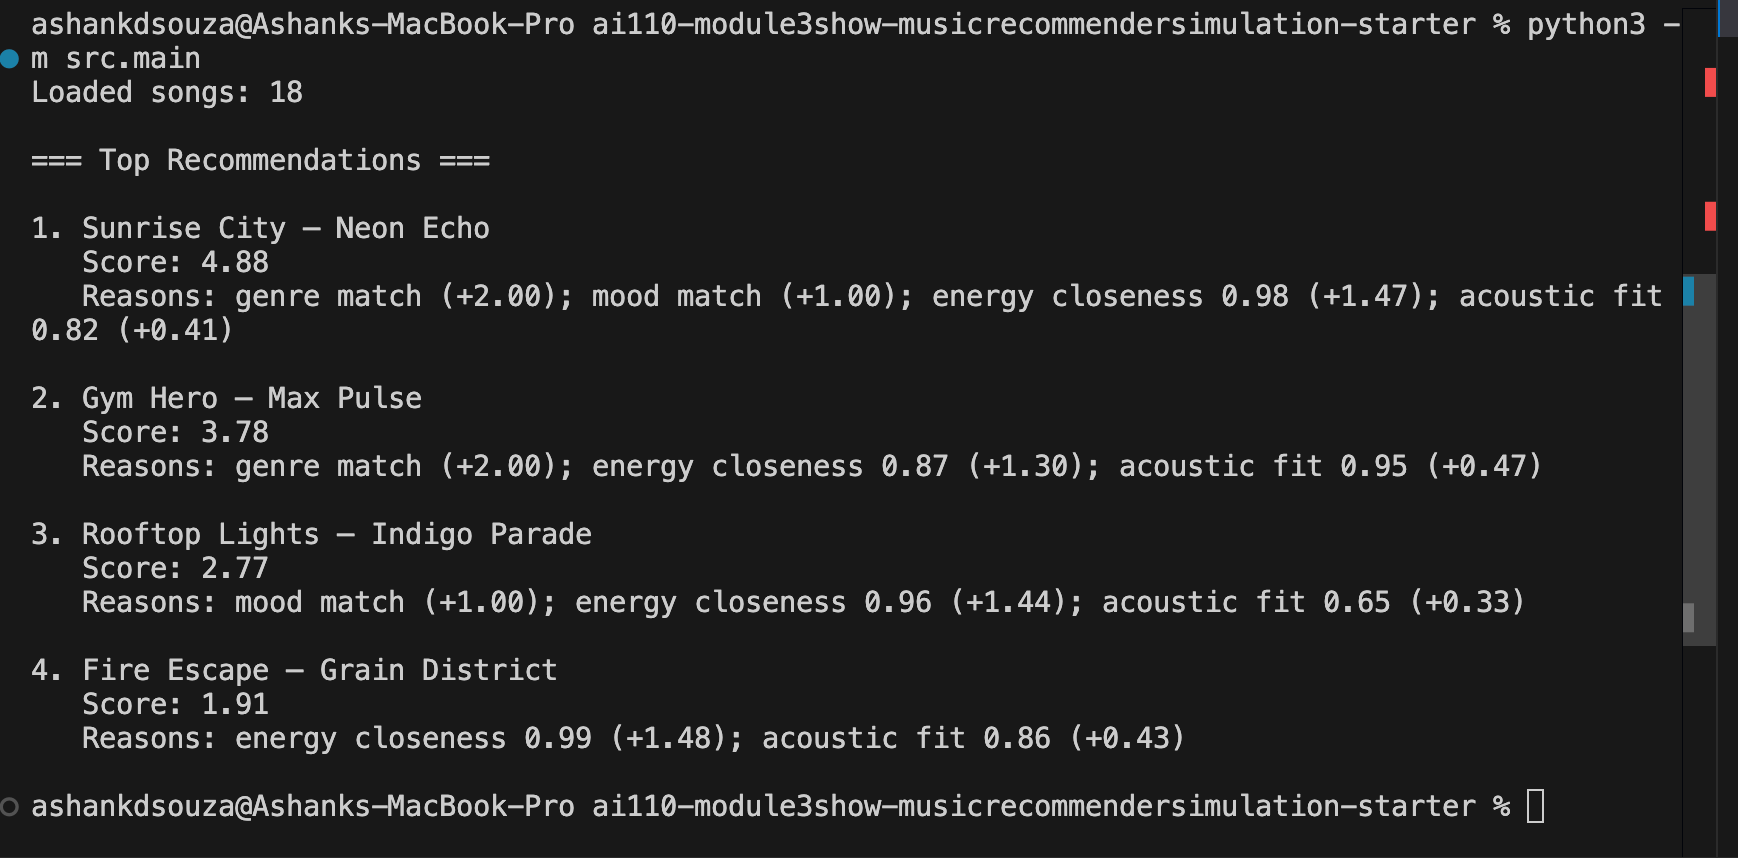
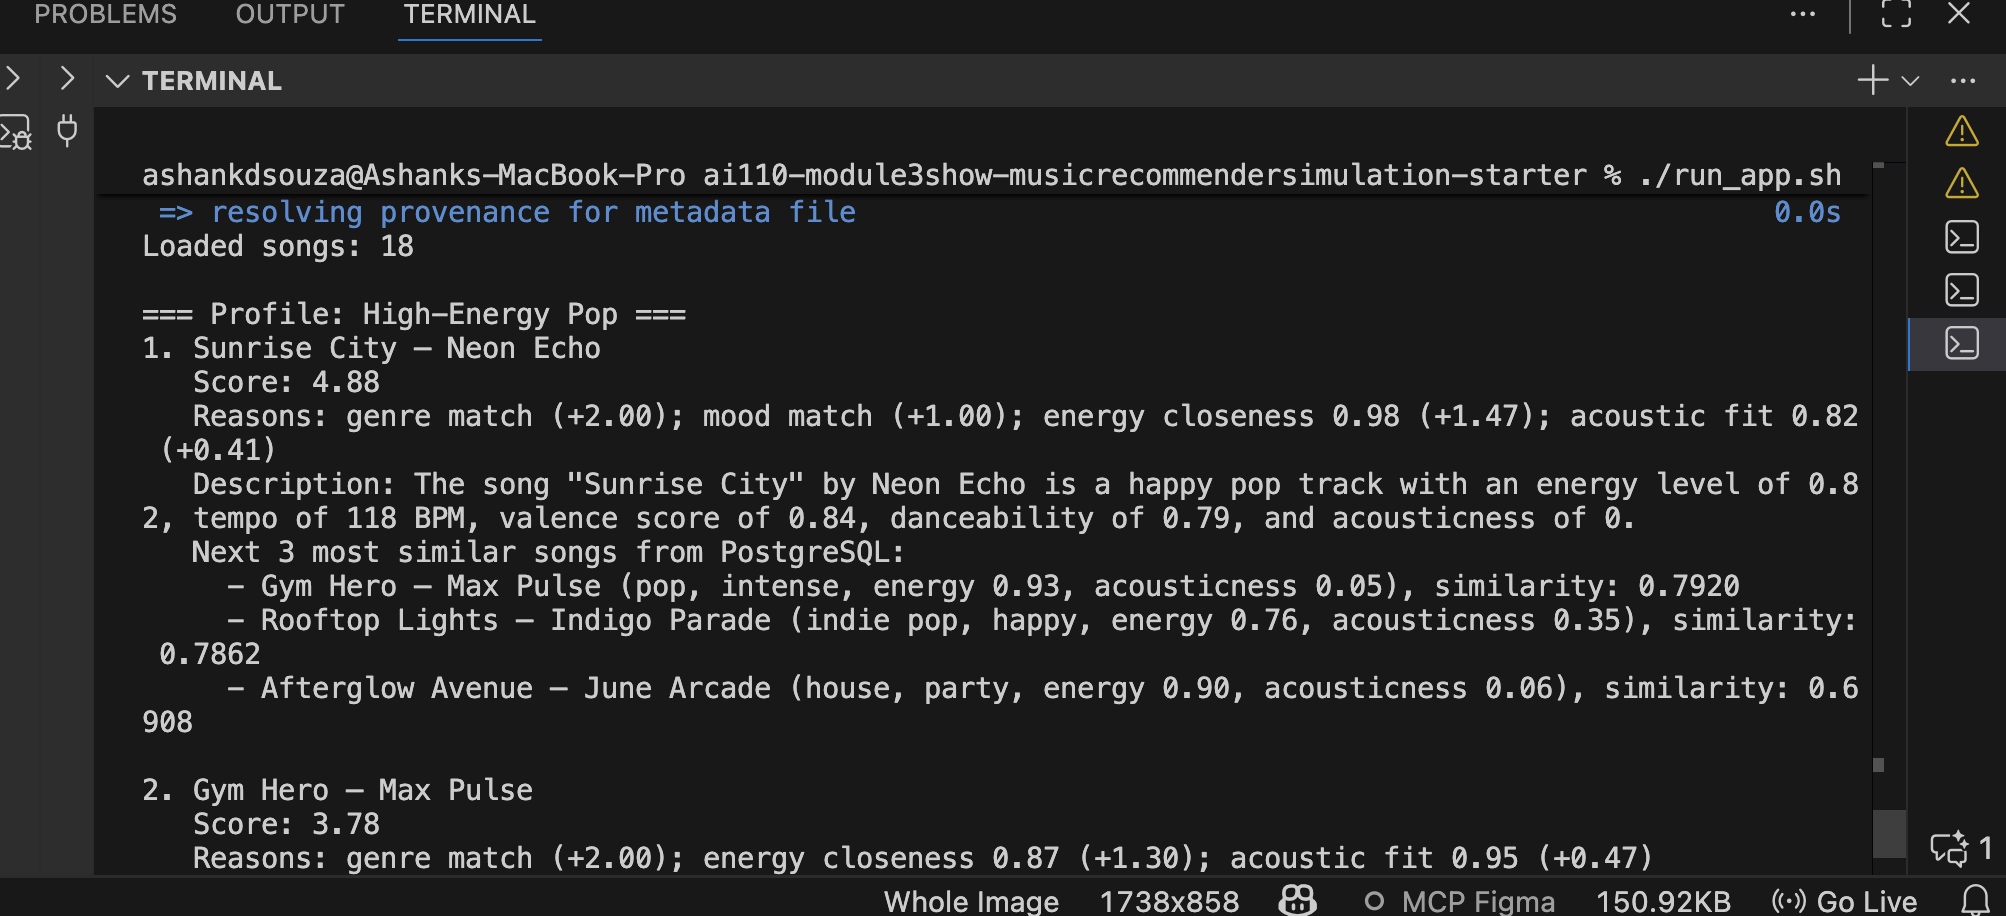
improves build dependability using docker for 100% of excecution

Changed region(s): [[0.0, 0.0, 1.0, 1.0], [0.3418, 0.0, 1.0, 0.0606], [0.9321, 0.8788, 0.9942, 0.9394]]

diff --git a/README.md b/README.md
@@ -8,8 +8,8 @@ It has a semantic search for top 3 most similar songs and RAG based description 
 ## How to run the application 
 
 1. Have docker installed, enabled and running
-2. Change all the python3 commands to whichever python uses python version 3, most likely it would be just python. The project should run using python version 3 not other python versions. 
-3. Run the bash file using [ bash run_app.sh ] or [ chmod +x run_app.sh && ./run_app.sh ]
+2. Run the bash file using [ bash run_app.sh ] or [ chmod +x run_app.sh && ./run_app.sh ]
+3. The app now runs inside Docker, so the final recommendation output will stream in the same terminal.
 
 Also, make sure your computer is well provisioned as the docker containers use a couple of GBs of memory and take time to download. 
 
@@ -210,7 +210,7 @@ Use this section to document the experiments you ran. For example:
 
 ### CLI Output Screenshot
 
-Add your terminal screenshot for `python -m src.main` here:
+Add your terminal screenshot for `./run_app.sh` here:
 
 ![CLI recommendation output](assets/cli-output.png)
 
